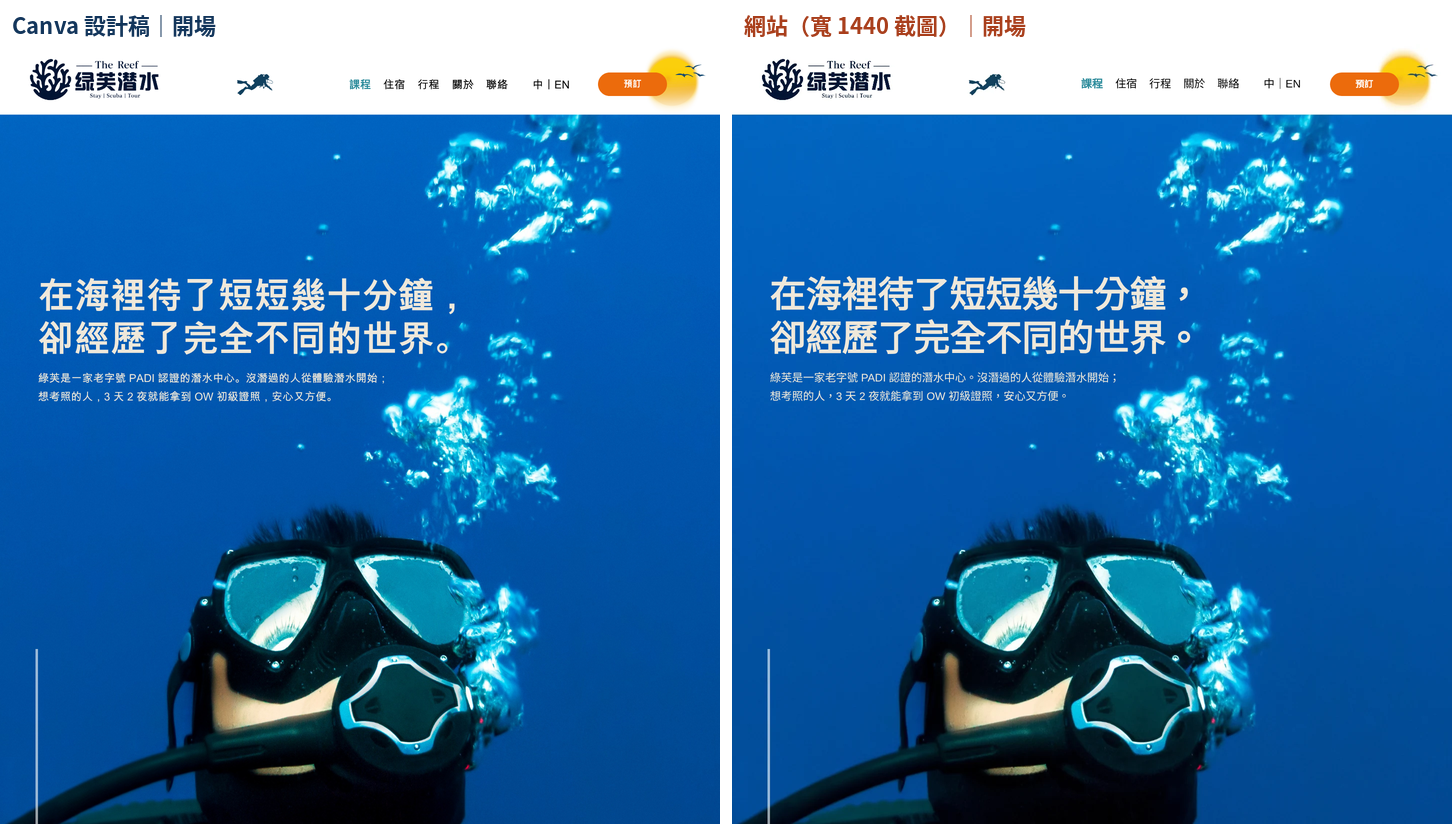
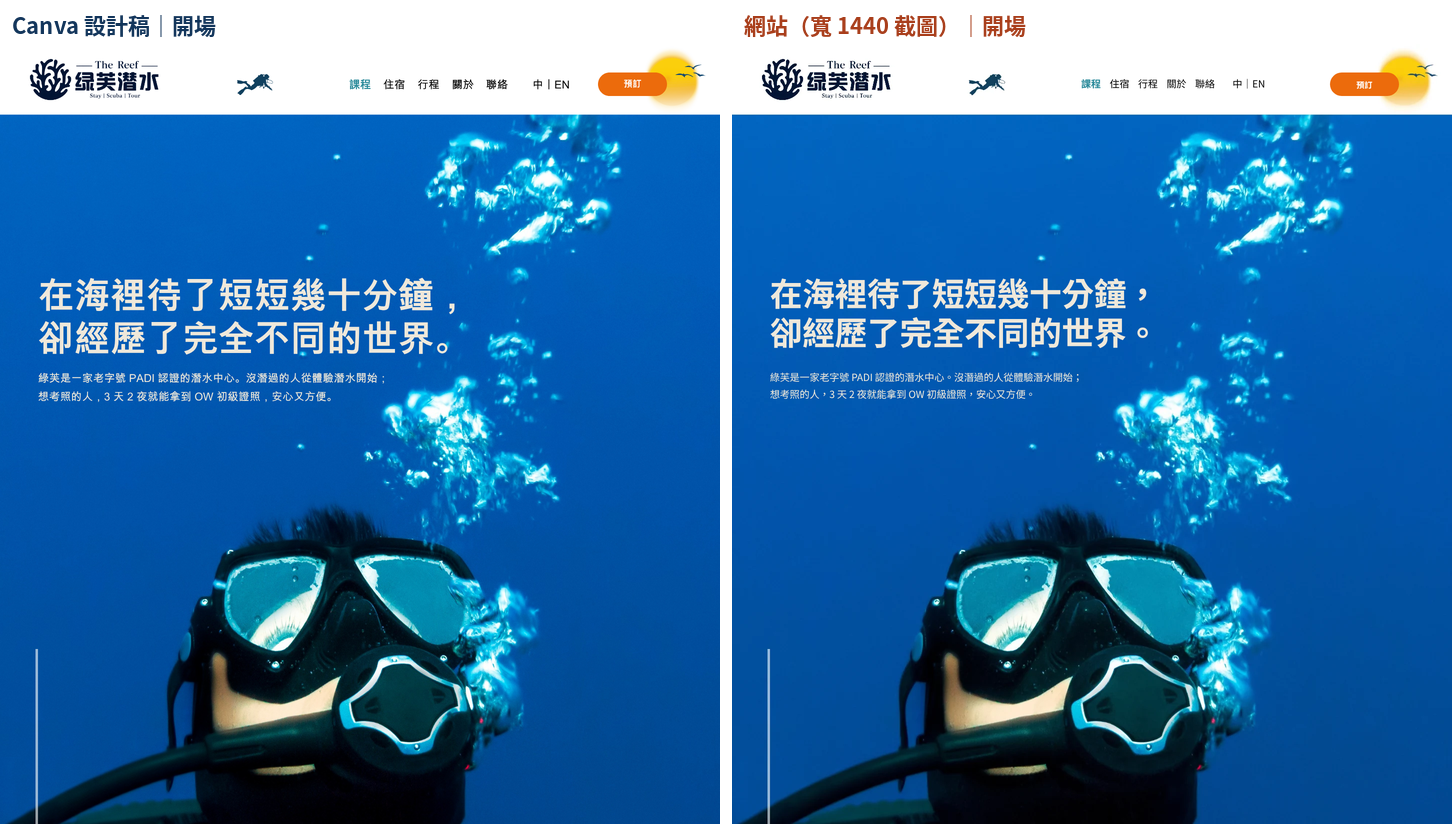
課程頁：字級 ×0.9、左右對齊、OW／AOW 說明收進框內、按鈕右緣對齊、拿掉加收 1,400（Ambre 11/17）
Claude-Session: https://claude.ai/code/session_01CnUJQacRPGhjQxybq71xBT

Changed region(s): [[0.5269, 0.3337, 0.8058, 0.4854], [0.7438, 0.091, 0.8988, 0.1214], [0.9298, 0.091, 0.9607, 0.1214]]

diff --git a/scripts/build-canvas-data.py b/scripts/build-canvas-data.py
@@ -12,16 +12,29 @@ from canvas_pages import PAGES
 ROOT = os.path.dirname(os.path.dirname(os.path.abspath(__file__)))
 LABEL_COLOR = "#edc40f"  # 黃色「● …」設計標籤：整段是這個顏色的文字不做進網站
 K = 1.2  # Canva 文字框第一行高度 ≈ 1.2 × 字級
+FONT_DIR = "/usr/share/fonts/opentype/noto/"  # 量字寬用（Noto Sans CJK TC＝網站的 Noto Sans TC）
+
+
+def text_right(t):
+    """文字實際最右邊（px）：每一行量字寬；自動換行的段落（左右對齊）會排到框的右緣。（同 build-home-data.py）"""
+    from PIL import ImageFont
+    font = ImageFont.truetype(FONT_DIR + ("NotoSansCJK-Bold.ttc" if t["fw"] >= 700 else "NotoSansCJK-Regular.ttc"), round(t["fs"] * 4), index=3)
+    body = "".join(x["t"] for x in t["spans"]) if t.get("spans") else t["text"]
+    right = 0
+    for line in body.split("\n"):
+        wpx = font.getlength(line) / 4 + t.get("ls", 0) * t["fs"] * len(line)
+        right = max(right, min(wpx, t["w"]))
+    return t["x"] + right
 
 
 def r(v, n=1):
     return round(v, n)
 
 
-def text_item(e, ov):
+def text_item(e, ov, scale=1):
     regs = e["textRegions"]
     f = regs[0]["formatting"]
-    fs, lh = f["fontSize"], f["lineHeight"]
+    fs, lh = f["fontSize"] * scale, f["lineHeight"]
     it = {"kind": "text", "id": e["id"],
           "x": r(e["left"]), "y": r(e["top"] - (lh - K) * fs / 2), "w": r(e["width"] + 4),
           "fs": r(fs), "fw": 700 if f["fontWeight"] == "bold" else 400, "color": f["color"],
@@ -44,12 +57,12 @@ def text_item(e, ov):
     return it
 
 
-def button(sh, tx, href):
+def button(sh, tx, href, scale=1):
     f = tx["textRegions"][0]["formatting"]
     p = sh["paths"][0]
     b = {"kind": "button", "x": r(sh["left"]), "y": r(sh["top"]), "w": r(sh["width"]), "h": r(sh["height"]),
          "radius": p["cornerRounding"], "bg": p["fill"]["color"]["color"],
-         "label": tx["textRegions"][0]["characters"], "fs": r(f["fontSize"]), "fw": 700, "color": f["color"], "href": href}
+         "label": tx["textRegions"][0]["characters"], "fs": r(f["fontSize"] * scale), "fw": 700, "color": f["color"], "href": href}
     st = p.get("stroke") or {}
     if st.get("weight"):
         b.update({"bw": st["weight"], "bc": st["color"]["color"]})
@@ -72,6 +85,7 @@ def main():
     pair_shape = {s: (t, h) for s, t, h in cfg.get("pairs", [])}
     pair_text = {t for _, t, _ in cfg.get("pairs", [])}
     skip = set(cfg.get("skip", []))
+    sc = cfg.get("textScale", 1)
     items = []
 
     def walk(e):
@@ -80,24 +94,46 @@ def main():
         if e["id"] in cfg.get("buttons", {}):
             sh = [c for c in e["children"] if c["type"] == "shape"][0]
             tx = [c for c in e["children"] if c["type"] == "text"][0]
-            items.append(button(sh, tx, cfg["buttons"][e["id"]]))
+            b = button(sh, tx, cfg["buttons"][e["id"]], sc)
+            b["_gid"] = e["id"]
+            items.append(b)
             return
         if e["id"] in pair_shape:
             t, h = pair_shape[e["id"]]
-            items.append(button(e, allel[t], h))
+            b = button(e, allel[t], h, sc)
+            b["_gid"] = e["id"]
+            items.append(b)
             return
         if e["type"] == "text":
             if not e.get("textRegions"):
                 return
             if all(g["formatting"]["color"].lower() == LABEL_COLOR for g in e["textRegions"]):
                 return
-            items.append(text_item(e, cfg.get("overrides", {}).get(e["id"], {})))
+            items.append(text_item(e, cfg.get("overrides", {}).get(e["id"], {}), sc))
             return
         for c in e.get("children") or []:
             walk(c)
 
     for e in page["elements"]:
         walk(e)
+
+    # 欄寬：參考段落的文字實際最右邊 → 其他段落縮到同寬（收在框內）
+    texts = {i.get("id"): i for i in items if i["kind"] == "text"}
+    col_right = {}
+    for name, (refs, fits) in cfg.get("columns", {}).items():
+        right = max(text_right(texts[t]) for t in refs)
+        col_right[name] = right
+        for o in fits:
+            texts[o]["w"] = r(right - texts[o]["x"])
+    # 按鈕右緣對齊那一欄的右緣；價格跟著按鈕移動（保持原本的間距）
+    for it in items:
+        gid = it.pop("_gid", None) if it["kind"] == "button" else None
+        if gid in cfg.get("buttonAlign", {}):
+            col, price = cfg["buttonAlign"][gid]
+            nx = r(col_right[col] - it["w"])
+            if price:
+                texts[price]["x"] = r(texts[price]["x"] + nx - it["x"])
+            it["x"] = nx
 
     def section_of(y):
         for k, _, a, b in cfg["sections"]:

diff --git a/scripts/canvas_pages.py b/scripts/canvas_pages.py
@@ -12,6 +12,16 @@ PAGES = {
         "canva": "courses-canva-elements.json",
         "title": "課程",
         "active": "/courses/",
+        "textScale": 0.9,  # 11/17 Ambre：比照首頁，字級 ×0.9（位置、框寬不變）
+        # 11/17 Ambre 圈選：說明文字收在框內＝「含｜…」那段縮到上面幾行的實際寬度；預訂按鈕右緣對齊這一欄（比照首頁）
+        "columns": {
+            "ow": (["LB2tB6sLbqQbC45c", "LBzV9DgV1JDjrfN4", "LByjSBHGQnvRDkNy", "LBFvdLGKf7gHwBnv"], ["LBN9YVvqBxNhtfDy"]),
+            "aow": (["LBTdZW10hJfmLY8V", "LBYZ3KqrDHls72KV", "LBdVRhkfppf511qs", "LBWGZjnCnG4pBy8Z"], ["LBljR0j6Hvqt5Ltv"]),
+        },
+        "buttonAlign": {  # 按鈕群組 id → (欄, 一起移動的價格文字 id)
+            "LBhhjwRx9fZF22NR": ("ow", "LB7wpznLPFr6yGkv"),
+            "LBsFwHTtt6NbRR06": ("aow", "LBsJdgwf1NsKMFsl"),
+        },
         "sections": [
             ("open", "開場", 0, 1560),
             ("ow", "PADI OW", 1560, 2400),
@@ -33,8 +43,9 @@ PAGES = {
         },
         "pairs": [("LB3GdLk0P62sQtyt", "LBk6lZZC7pWDzhSS", "/booking/?item=ow-aow")],
         "overrides": {
-            # 行距／寬度微調：用像素量測對齊 Canva（Canva 的行距比網頁略緊、標點比較寬）
-            "LBThsYBdMByRBzyx": {"w": 304},
+            # 行距微調：用像素量測對齊 Canva（Canva 的行距比網頁略緊）
+            # AOW 包含內容：拿掉「深潛改成 2 支船潛加收 NT$ 1,400」（11/17 Ambre：1,400 不在價目表，這句拿掉）
+            "LBljR0j6Hvqt5Ltv": {"text": "含｜線上學科、PADI 證照申請費、5 支術科、全套裝備和電腦錶、背包房 2 晚、碼頭接送、機車 2 人 1 台、保險"},
             "LB7wpznLPFr6yGkv": {"priceId": "ow", "text": "NT$ {price} ／人"},
             "LBsJdgwf1NsKMFsl": {"priceId": "aow", "text": "NT$ {price} ／人"},
             "LBrDZT1G6gSqkWdg": {"priceId": "ow-aow", "text": "NT$ {price} ／人"},

diff --git a/docs/課程頁進度.md b/docs/課程頁進度.md
@@ -31,13 +31,13 @@
 像素量測（Canva 原頁 vs 網站截圖，每個文字和按鈕的範圍）：位置差都在 0–2 px；文字寬度因字型不同差 0–8 px。
 
 ## 待 Ambre 決定
-- AOW「深潛改成 2 支船潛加收 NT$ 1,400」：1,400 不在價目表（Sheet），目前照 Canva 文字顯示。要不要把它加進 Sheet？
 - Fun Dive 卡寫「船潛 1 支」，價目表的船潛是「一趟（通常含 2 支）」計價。卡片要改成「船潛 1 趟（2 支）」嗎？
 - 「下水前請先看」裡「報名時會請你填 PADI 健康問卷。」在 Canva 是黃色字，我當成內容保留（黃色）。如果它其實是設計標註、要拿掉或改白色，跟我說。
 - 進修課程卡「近一步資訊」錯字，網站已改成「進一步」。
-- 頁尾信箱、LINE、Instagram 連結還是（待填）（site.json 沒有）。
+- 頁尾信箱、LINE、Instagram 連結還是（待填）（site.json 沒有）→ 11/17 Ambre：等所有頁面好了一起補。
 
 ## 紀錄
 - 11/16（排程）：建立工作檔 DAHbGmNgcBM、讀一次座標存 docs/courses-canva-elements.json、匯出去字底圖與原頁。版型、截圖、比對圖改成首頁課程共用（首頁重建後截圖逐像素相同）；新增通用產生器 build-canvas-data.py＋canvas_pages.py；fillPrices 加 {item:代號}、{tier:代號:第幾格}。
 - 11/16（排程）：開場、PADI OW、AOW、其他方案、下水前請先看、頁尾 六段完成（比對圖 docs/compare/courses/01–06），npm test 32 題一致。
 - 11/16（排程）：已傳比對圖給 Ambre（6 張，SendUserFile＋推播）；Project 狀態檔第 8 節已加一筆。等她逐段回覆，說 OK 才合併 main。
+- 11/17 Ambre 回饋：(1) 字級比照首頁縮小 (2) 字收在框內（圈 OW 那欄）(3) 價格一律以 Sheet「價目與計價總表（主檔）」為準 (4) LINE、IG 等全部頁面好了一起補。處理：先把 main（首頁字級 0.9、左右對齊、按鈕對齊）合併進 courses-redo（首頁截圖跟 main 逐像素相同）；課程頁字級 ×0.9、段落左右對齊；OW、AOW「含｜…」那段縮到上面幾行的實際寬度，預訂按鈕右緣對齊這一欄、價格跟著移（比照首頁）；Sheet 01_價目表 41 項逐項核對 prices.json 全部一致；AOW「深潛改 2 支船潛加收 NT$ 1,400」拿掉（Ambre 決定）。比對圖重做（docs/compare/courses/01–06）。
